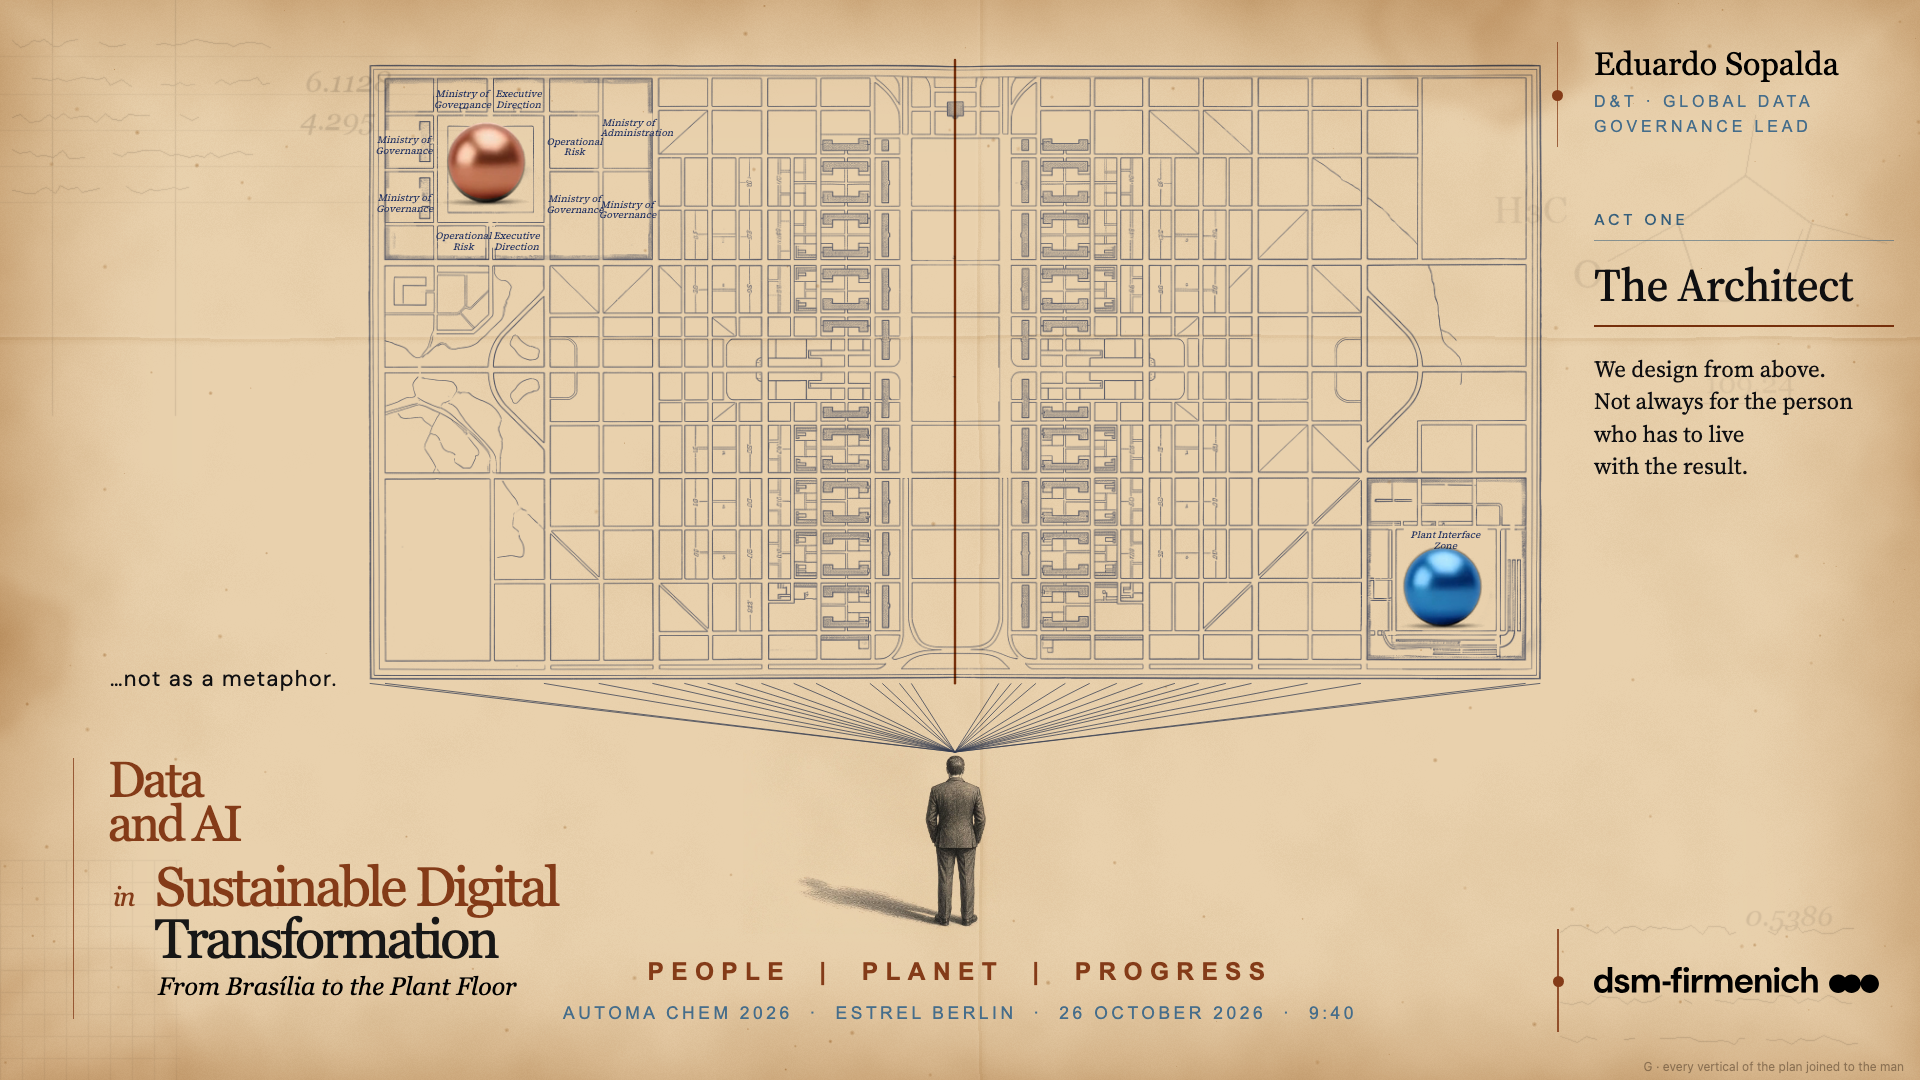
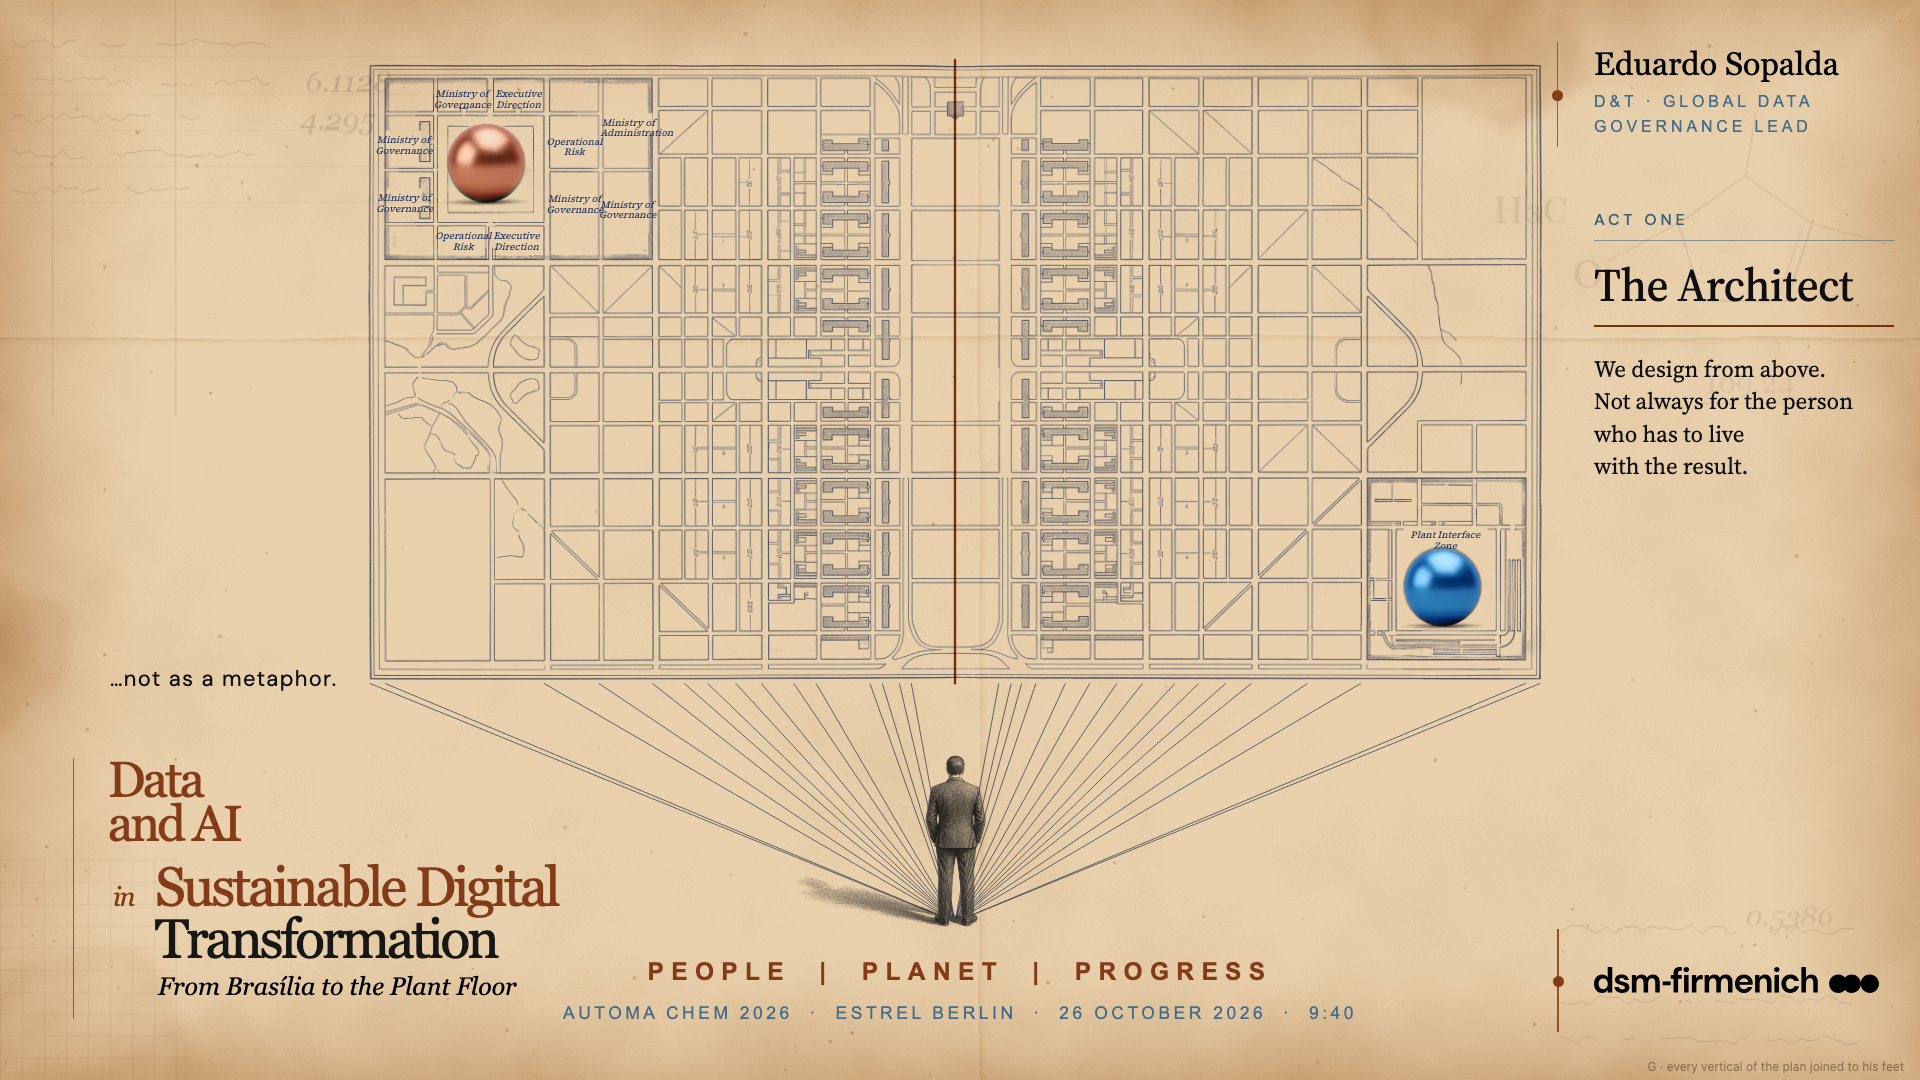
Act 1 still G: the lines meet at his feet and pass behind him

Changed region(s): [[0.2812, 0.6417, 0.7812, 0.8556], [0.875, 0.9778, 1.0, 1.0], [0.2188, 0.6417, 0.25, 0.6722]]

diff --git a/act1/stills.html b/act1/stills.html
@@ -196,11 +196,12 @@ if (s === "R2") { persp(90, { horizon: true }); column(0.5); sphere("copper", 56
 if (s === "G") {        // Still E, plus: every vertical line of the plan joined to the man
   axis(1); plan("all"); labels(); column(2);
   sphere("copper", ...HOME.copper); sphere("blue", ...HOME.blue); note();
-  const head = [955, 752];
+  const feet = [955, 922];
   let d = "";
-  for (const x of LM.v) { const [X, Y] = F(x, 1045); d += `<line x1="${X.toFixed(1)}" y1="${Y.toFixed(1)}" x2="${head[0]}" y2="${head[1]}" stroke="#3a4b7a" stroke-width="1" opacity="0.75"/>`; }
-  add(`<svg class="abs ink" width="1920" height="1080" style="left:0;top:0">${d}</svg>`);
-  cap("G · every vertical of the plan joined to the man");
+  for (const x of LM.v) { const [X, Y] = F(x, 1045); d += `<line x1="${X.toFixed(1)}" y1="${Y.toFixed(1)}" x2="${feet[0]}" y2="${feet[1]}" stroke="#3a4b7a" stroke-width="1" opacity="0.75"/>`; }
+  // the lines pass behind him: his drawing (white where there is paper) masks them out
+  add(`<svg class="abs ink" width="1920" height="1080" style="left:0;top:0"><defs><mask id="behind" maskUnits="userSpaceOnUse" x="0" y="0" width="1920" height="1080"><rect width="1920" height="1080" fill="#fff"/><image href="../opening/man.png" x="743" y="750" width="257" height="184" style="filter:contrast(3) brightness(1.15)"/></mask></defs><g mask="url(#behind)">${d}</g></svg>`);
+  cap("G · every vertical of the plan joined to his feet");
 }
 </script>
 </body>
